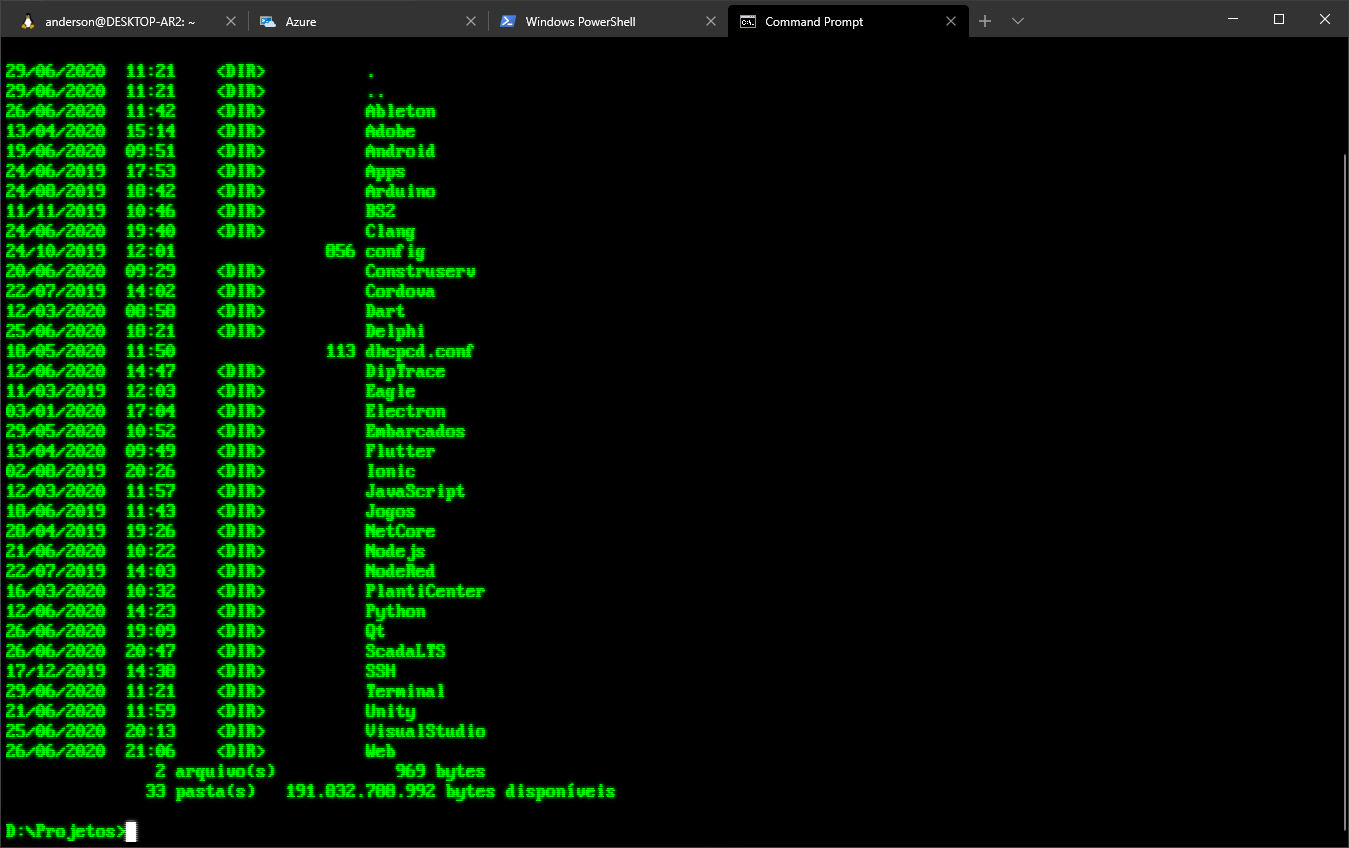
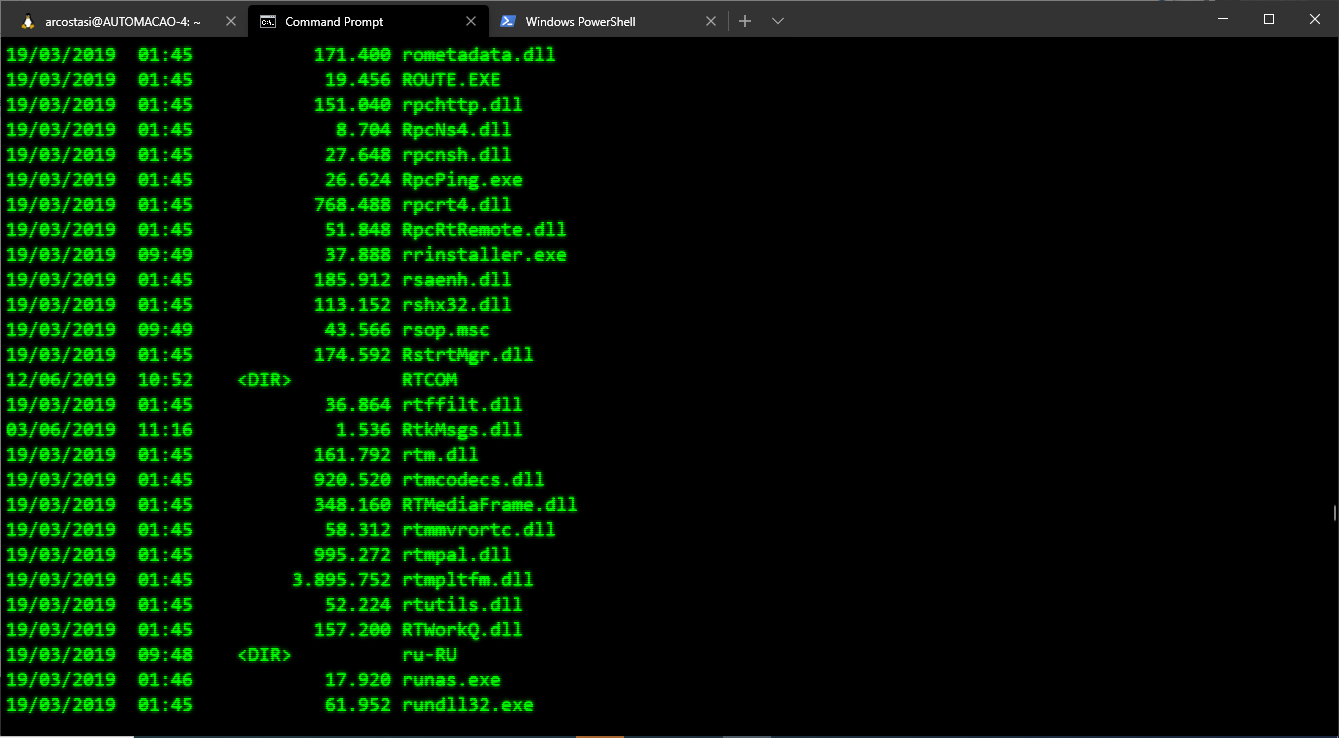
Updates

Changed region(s): [[0.0, 0.0, 1.0, 1.0]]

diff --git a/README.md b/README.md
@@ -3,3 +3,10 @@
 My windows terminal settings.
 
 <img src="https://github.com/arcostasi/windows-terminal/blob/master/ms-dos-prompt.png?raw=true" width="600">
+Prompt de comanado (ms-dos)
+
+<img src="https://github.com/arcostasi/windows-terminal/blob/master/power-shell.png?raw=true" width="600">
+Windows PowerShell
+
+<img src="https://github.com/arcostasi/windows-terminal/blob/master/bash.png?raw=true" width="600">
+Bash (Debian GNU/Linux)
